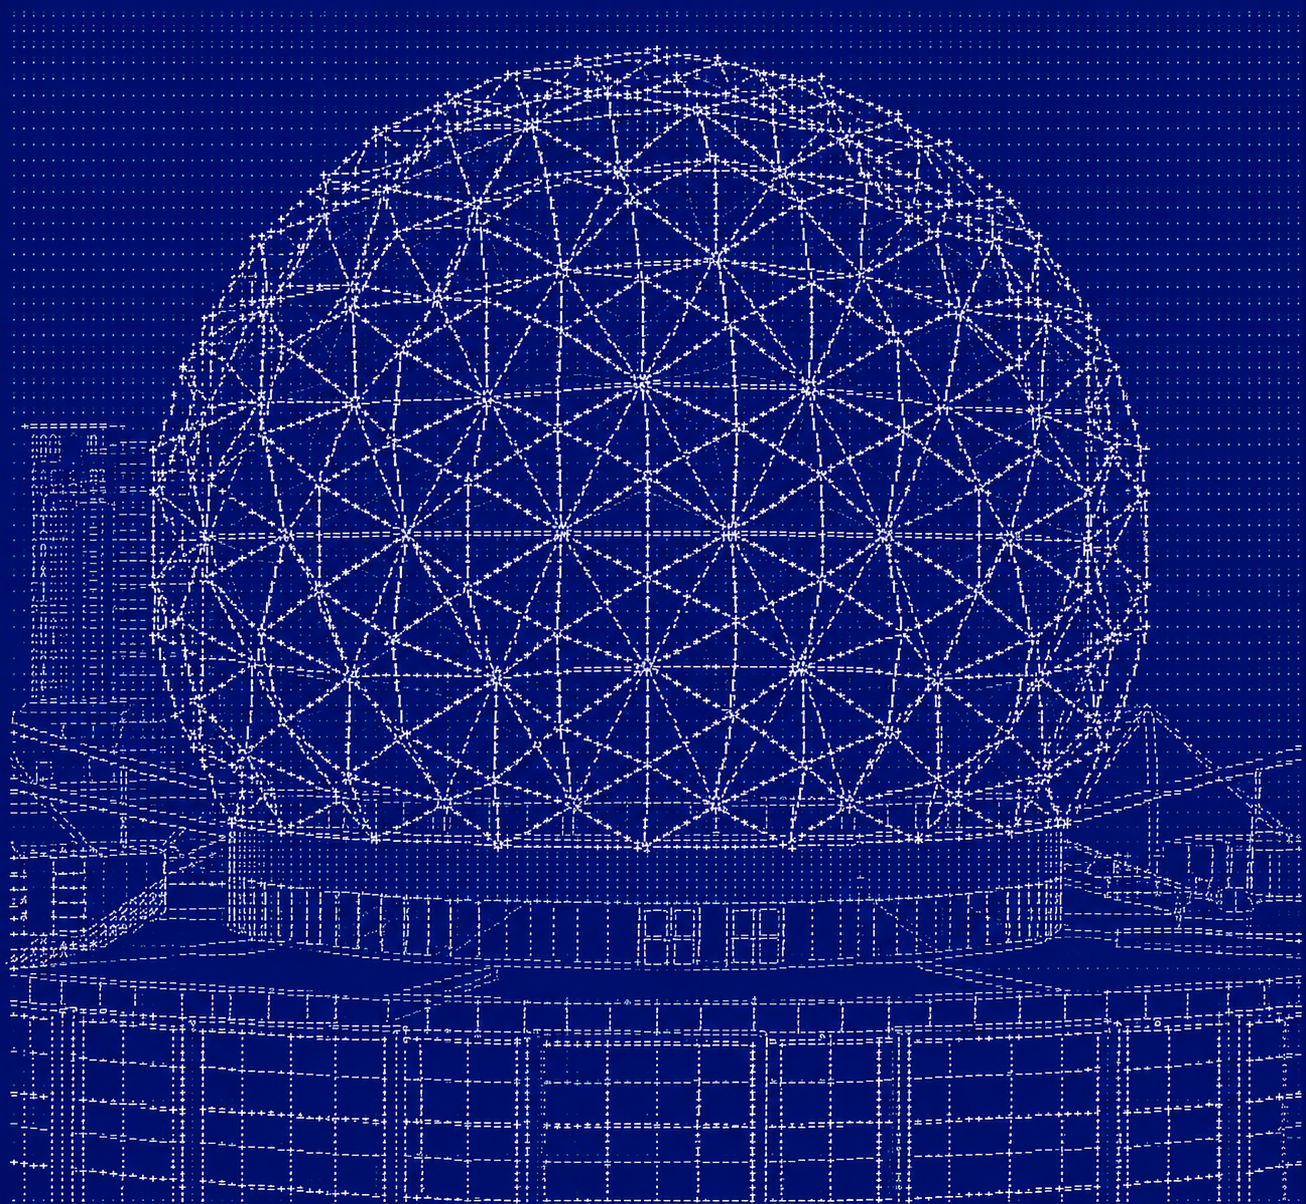
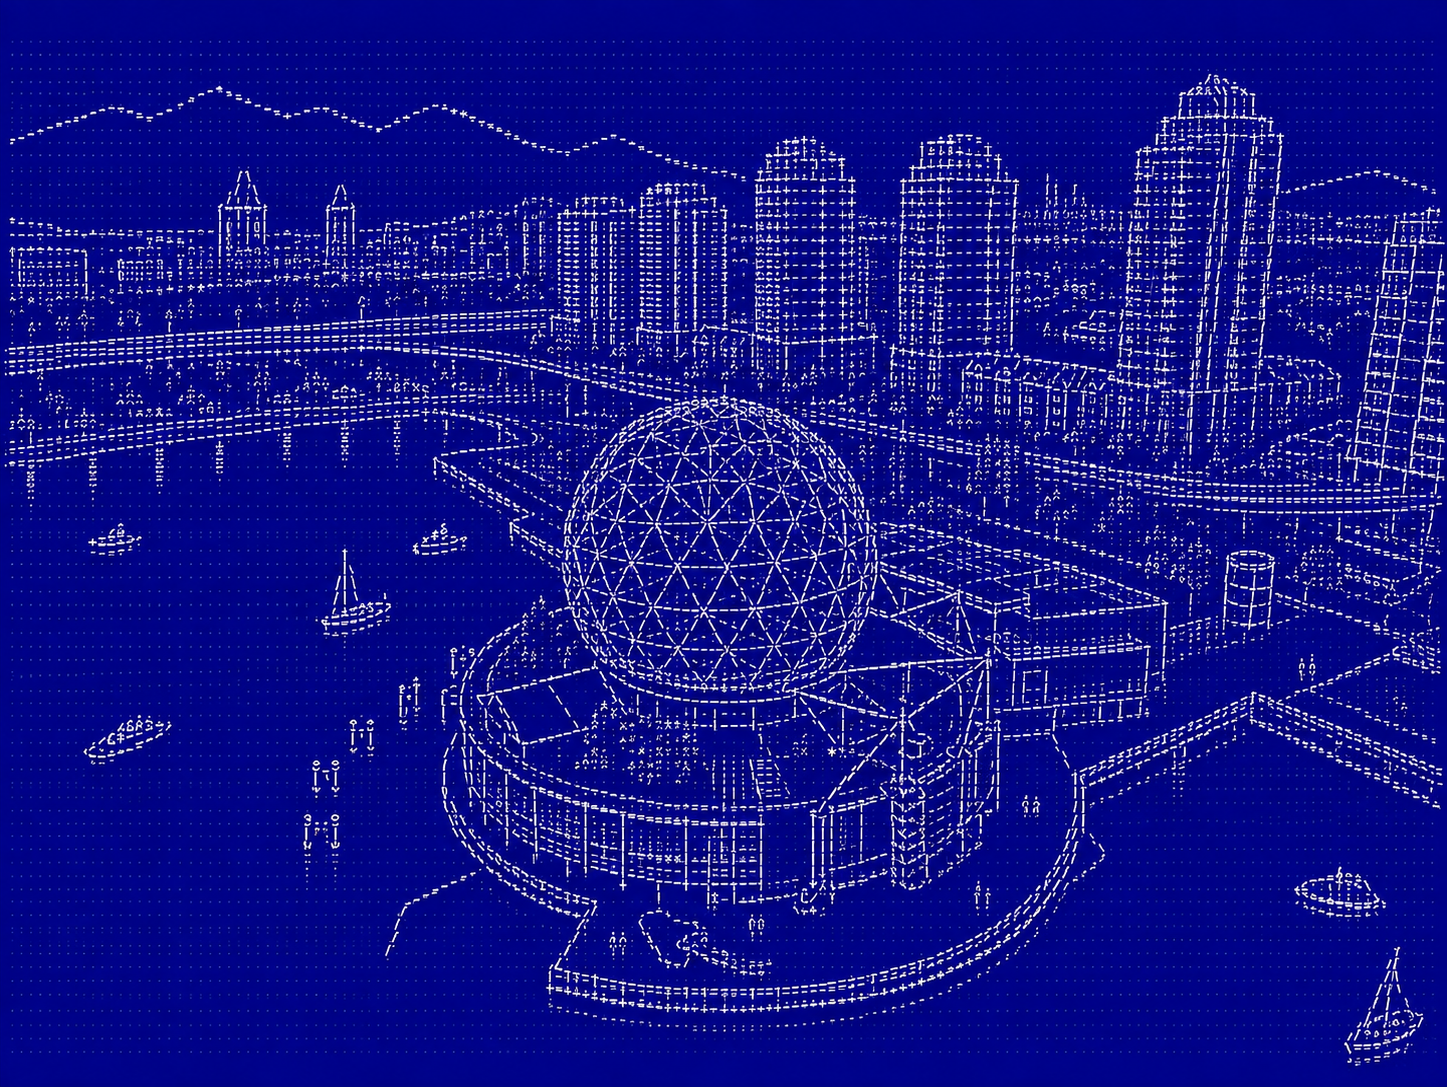
Use the new blue Science World image in both BIOS sections.
Generated with [Devin](https://devin.ai)

diff --git a/site/bios/index.html b/site/bios/index.html
@@ -35,7 +35,7 @@
       href="https://fonts.googleapis.com/css2?family=IBM+Plex+Mono:wght@400;500&amp;family=IBM+Plex+Sans:wght@400;500;600;700&amp;display=swap"
       rel="stylesheet"
     />
-    <link rel="stylesheet" href="/styles.css?v=75" />
+    <link rel="stylesheet" href="/styles.css?v=76" />
   </head>
   <body>
     <a class="skip" href="#main">Skip to content</a>

diff --git a/site/styles.css b/site/styles.css
@@ -1233,8 +1233,7 @@ input {
   object-fit: cover;
   /* Pencil sketch of Science World — dome high in frame */
   object-position: center 18%;
-  /* keep graphite look; don't re-saturate into photo */
-  filter: contrast(1.08) saturate(0.12);
+  filter: contrast(1.08) saturate(1.05);
   display: block;
 }
 
